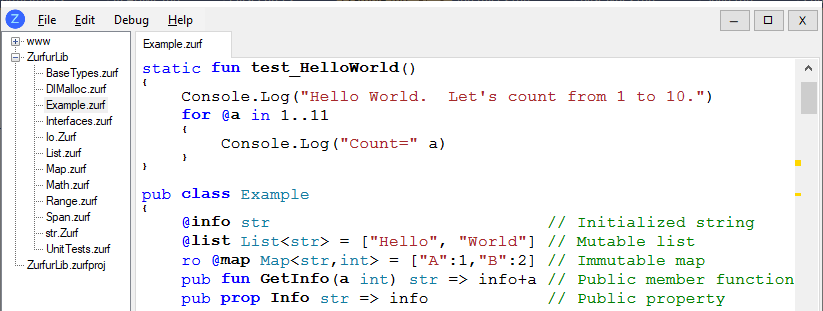
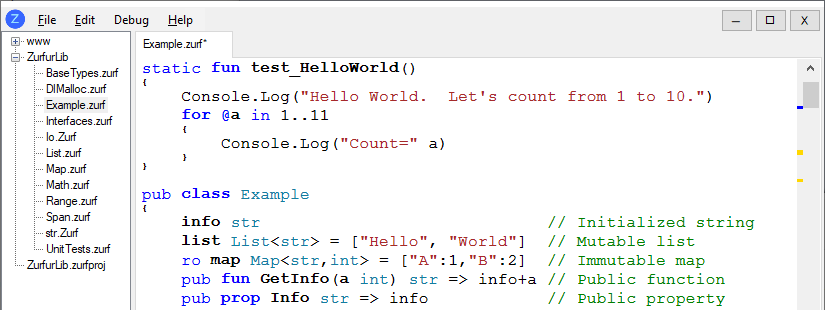
Do not require "@" for field definitions

diff --git a/Zurfur/Compiler/ParseZurf.cs b/Zurfur/Compiler/ParseZurf.cs
@@ -277,8 +277,8 @@ namespace Gosub.Zurfur.Compiler
                         break;
 
                     case "const":
-                    case "@":
-                        //case "var":
+                    case "var":
+                    //case "@": // TBD: Keep this is we want to require `@` in front of class fields
                         if (mTokenName != "@")
                             mToken.Type = eTokenType.ReservedControl;
                         qualifiers.Add(Accept());
@@ -295,6 +295,13 @@ namespace Gosub.Zurfur.Compiler
                             var enumFieldName = ParseEnumField(parentScope, qualifiers, keyword);
                             if (!mToken.Error)
                                 mUnit.Fields.Add(enumFieldName);
+                        }
+                        else if (keyword.Type == eTokenType.Identifier)
+                        {
+                            // TBD: Remove this if we require `@` in front of field definitions
+                            var classFieldVarName2 = ParseField(parentScope, qualifiers);
+                            if (!mToken.Error)
+                                mUnit.Fields.Add(classFieldVarName2);
                         }
                         else
                         {

diff --git a/README.md b/README.md
@@ -52,10 +52,10 @@ free to send me comments letting me know what you think should be changed.
 
     /// This is a public documentation comment.  Do not use XML.
     /// Use `name` to refer to variables in the code. 
-    pub static fun Main(args []str)
+    pub static fun Main(args Array<str>)
     {
         // This is a regular private comment
-        Console.Log("Hello World, 2+2=" + add(2,2))
+        Console.Log("Hello World, 2+2=" add(2,2))
     }
 
     // Regular static function
@@ -213,7 +213,7 @@ There is no `StringBuilder` class.  Instead, use `List<byte>`.
     @sb = List<byte>()
     sb.Push("Count to 10: ")
     for @count in 1::10
-        { sb.Push(" " + count) }
+        { sb.Push(" " count) }
     return str(sb)
 
 Strings can be sliced.  See `List` (below)
@@ -258,10 +258,15 @@ Elements are immutable when `str` and `Array` are sliced, and mutable when
 
 `List` is a variable sized array with a `Count` and `Capacity` that
 changes as items are added or removed.  Lists use `ref` returns and act
-exactly like a dynamically sized mutable array.  A field of a mutable struct
-can be modified, like so:
+exactly like a dynamically sized mutable array.
 
-    struct MyPoint { pub @X int;  pub @Y int; fun new(x int, y int) {todo()} }
+    @a = [1,2,3]                // a is List<int>
+    @b = ["A", "B", "C"]        // b is List<str>
+    @c = [[1,2,3],[4,5,6]]      // c is List<List<int>>
+
+A field of a mutable struct can be modified, like so:
+
+    struct MyPoint { pub X int;  pub Y int; fun new(x int, y int) {todo()} }
     @a List<MyPoint> = [(1,2),(3,4),(5,6)]  // Use array intializer with MyPoint constructor
     a[1].Y = 12                             // Now a contains [(1,2),(3,12),(5,6)]
 
@@ -280,22 +285,22 @@ data.  In general, this should be very rare for most programs, however it is nec
 for memory safety, efficiency, and programmers should be aware.  **TBD:** May panic
 instead of detaching, since this is probably a programming error.
 
-        @list List<byte>
-        list.Push("Hello Pat")    // list is "Hello Pat"
-        @slice = a[6::3]            // slice is "Pat"
-        slice[0] = "M"[0]           // slice is "Mat", list is "Hello Mat"
-        list.Push("!")            // slice is now detached, list is "Hello Mat!"
-        slice[0] = "C"[0]           // slice is "Cat", list is still "Hello Mat!"
+        @list = List<byte>()
+        list.Push("Hello Pat")  // list is "Hello Pat"
+        @slice = a[6::3]        // slice is "Pat"
+        slice[0] = "M"[0]       // slice is "Mat", list is "Hello Mat"
+        list.Push("!")          // slice is now detached, list is "Hello Mat!"
+        slice[0] = "C"[0]       // slice is "Cat", list is still "Hello Mat!"
 
 #### Map
 
 `Map` is a hash table and is similar to `Dictionary` in C#.
 
-    @a Map<str,int> = ["Hello":1, "World":2]
-    @b = a["World"]                             // b is 2
-    @c = a["not found"]                         // throws exception
-    @d = a.Get("not found")                     // d is 0
-    @e = a.Get("not found", -1)                 // e is -1
+    @a = ["Hello":1, "World":2]     // a is Map<str,int>
+    @b = a["World"]                 // b is 2
+    @c = a["not found"]             // throws exception
+    @d = a.Get("not found")         // d is 0
+    @e = a.Get("not found", -1)     // e is -1
 
 #### SortedMap
 
@@ -364,7 +369,7 @@ Or, `if maybeNullObjectFunc()@nonNullObject { }` can be used to
 convert `?Object` into `Object` inside of the braces. 
 
 The range operator`..` takes two `int`s and make a `Range` which is a
-`struct Range{ @High int; @Low int}`.  The `::` operator also makes a
+`struct Range{ High int; Low int}`.  The `::` operator also makes a
 range, but the second parameter is a count (`High = Low + Count`).  
 
 The pair operator `:` makes a key/value pair which can be used
@@ -525,10 +530,10 @@ level as a `case` statement.
     {
     case 0, 1, 2:
         DoStuff0()  // No fall through here.
-    case 3:
+    case 3..6:      // Same as 3,4,5
         DoStuff1()
         break;      // SYNTAX ERROR: Break is illegal here
-    case 4,5,6:
+    case 6,7,8:
         DoStuff2()
         if x==y
             { break }  // Exit switch statement early, don't DoStuff3
@@ -583,21 +588,21 @@ and struct is a value object.
     pub class Example
     {   
         // Mutable fields
-        @F1 str                                  // Private string initialized to ""
-        pub @F2 List<int>                        // List initialized to empty (i.e. Count = 0)
-        pub @F4 List<int> = [1,2,3]              // List initialized with 1,2,3
-        pub @F5 List<str> = ["Hello", "World"]   // Initialized list
-        pub @F6 Map<str,int> = ["A":1, "B":2]    // Initialized map
+        F1 str                                  // Private string initialized to ""
+        pub F2 List<int>                        // List initialized to empty (i.e. Count = 0)
+        pub F4 List<int> = [1,2,3]              // List initialized with 1,2,3
+        pub F5 List<str> = ["Hello", "World"]   // Initialized list
+        pub F6 Map<str,int> = ["A":1, "B":2]    // Initialized map
 
         // Immutable fields
-        pub ro @F7 str = "Hello world"                // Initialized read only string
-        pub ro @points List<MutablePointXY> = [(1,2),(3,4),(5,6)]
+        pub ro F7 str = "Hello world"
+        pub ro points List<MutablePointXY> = [(1,2),(3,4),(5,6)]
         
-        pub fun Func1(this, a int) f64 => F1 + " hi"   // Member function
-        pub fun Func2(this mut, a int) { F1 = "x"}     // Member function that mutates
+        pub fun Func1(this, a int) f64 => "" F1 " hi"   // Member function
+        pub fun Func2(this mut, a int) { F1 = "x"}      // Member function that mutates
 
-        pub prop Prop1 str => F1                     // Property returning F1
-        pub prop ChangedTime DateTime = DateTime.Now // Default value and default get/set
+        pub prop Prop1 str => F1                        // Property returning F1
+        pub prop ChangedTime DateTime = DateTime.Now    // Default value and default get/set
             => default get private set
     }
 
@@ -612,9 +617,7 @@ Or you can implement them the regular way `prop GetExpr { get { return expressio
 Classes are sealed by default.  Use the `unsealed` keword to open them up.
 Sealed classes may be extended but no functions may be overridden.
 
-**TBD:** Remove `@` from field definitions?  It makes parsing easier to keep
-it.  And without it, it's not always so obvious that it's a field definition.
-Consider using `var` keyword instead.
+**TBD:** Require `@` for field definitions?  Consider requiring `var` keyword instead.
 
 #### Struct
 
@@ -624,8 +627,8 @@ efficiency are desired.  `int`, `byte`, and `float` are structs.
     // Mutable point (each mutable function must also be marked)
     pub struct MyMutablePoint
     {
-        pub @X int
-        pub @Y int
+        pub X int
+        pub Y int
         pub fun new(x int, y int) { X = x; Y = y}
         pub mut fun SetY(y int) { Y = y }
         pub prop PropX int { get => X; set { X = value } }
@@ -646,8 +649,8 @@ Structs are mutable by default, but can be made immutable using the `ro` keyword
     // Immutable point (use `ro` on the `struct`)
     pub struct ro MyPoint
     {
-        pub ro @X int
-        pub ro @Y int
+        pub ro X int
+        pub ro Y int
         pub new(x int, y int) { X = x; Y = y}
     }
 
@@ -660,7 +663,7 @@ They can be initialized by a constructor or using named field parameters:
     @a = MyPoint(1,2)
     @b = MyPoint(X: 3, Y: 4)
 
-**TBD:** Make `struct` members public by default?  Remove `@` for fields?
+**TBD:** Make `struct` members public by default?
 
 #### Anonymous Class and Struct
 
@@ -674,10 +677,6 @@ anonymous class can be used to capture them by reference.
     @a = aclass(max = int.Min)
     myList.ForEach(item -> { a.max = Math.Max(item, a.max) })
     Log.Info("Maximum value in the list is: " a.max)
-
-**TBD:** Require `@` for variable names `@a = aclass(@x int, @y int)`?
-Probably not necessary since the keyword gives it away.  Also, we have
-precedence not to use `@` here `const a int = 3`.
 
 #### Enums
 
